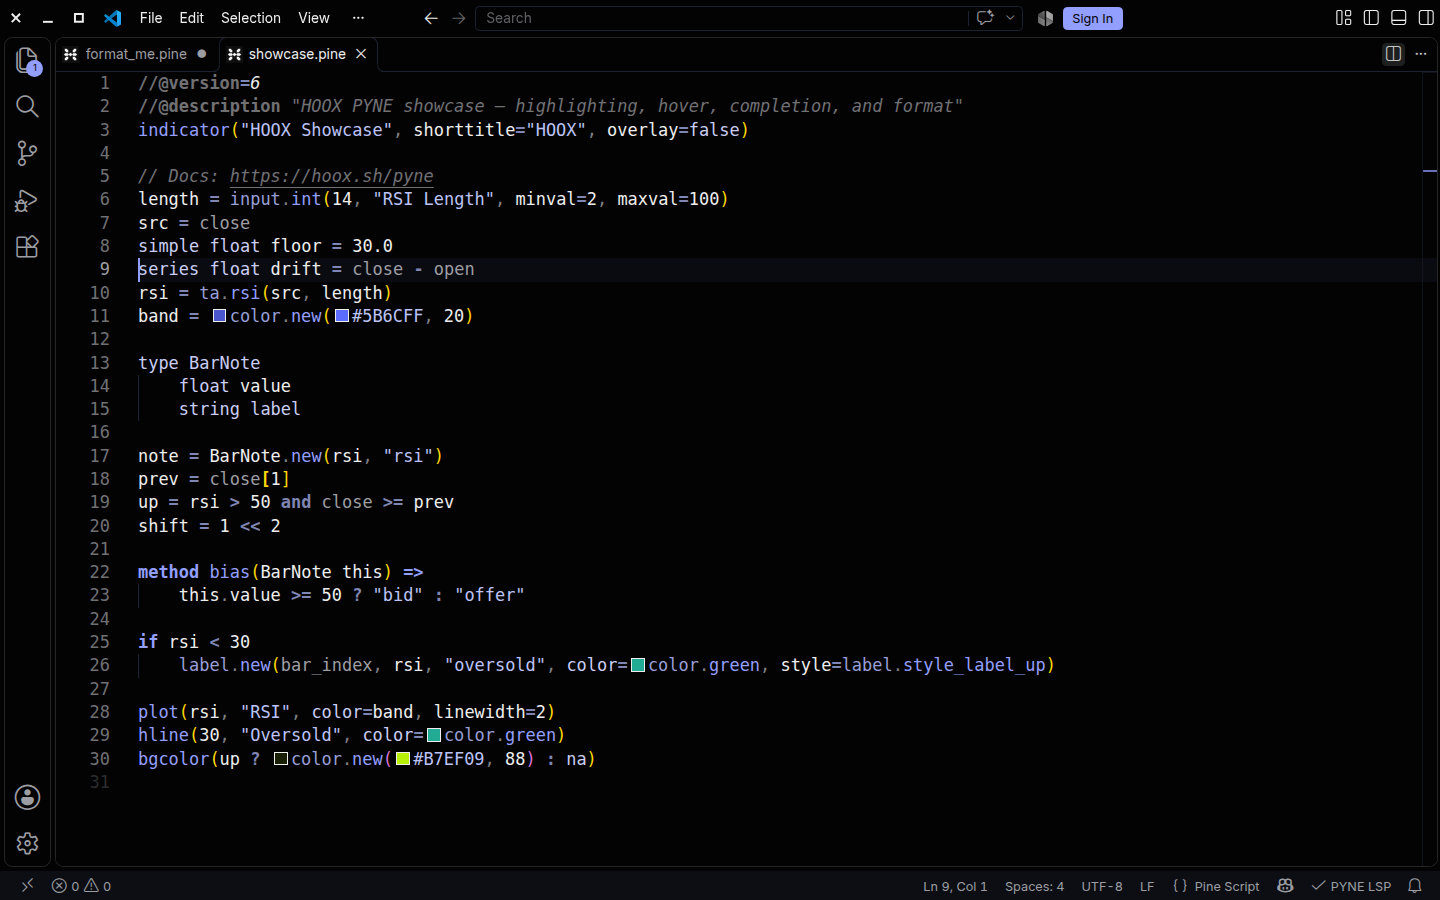
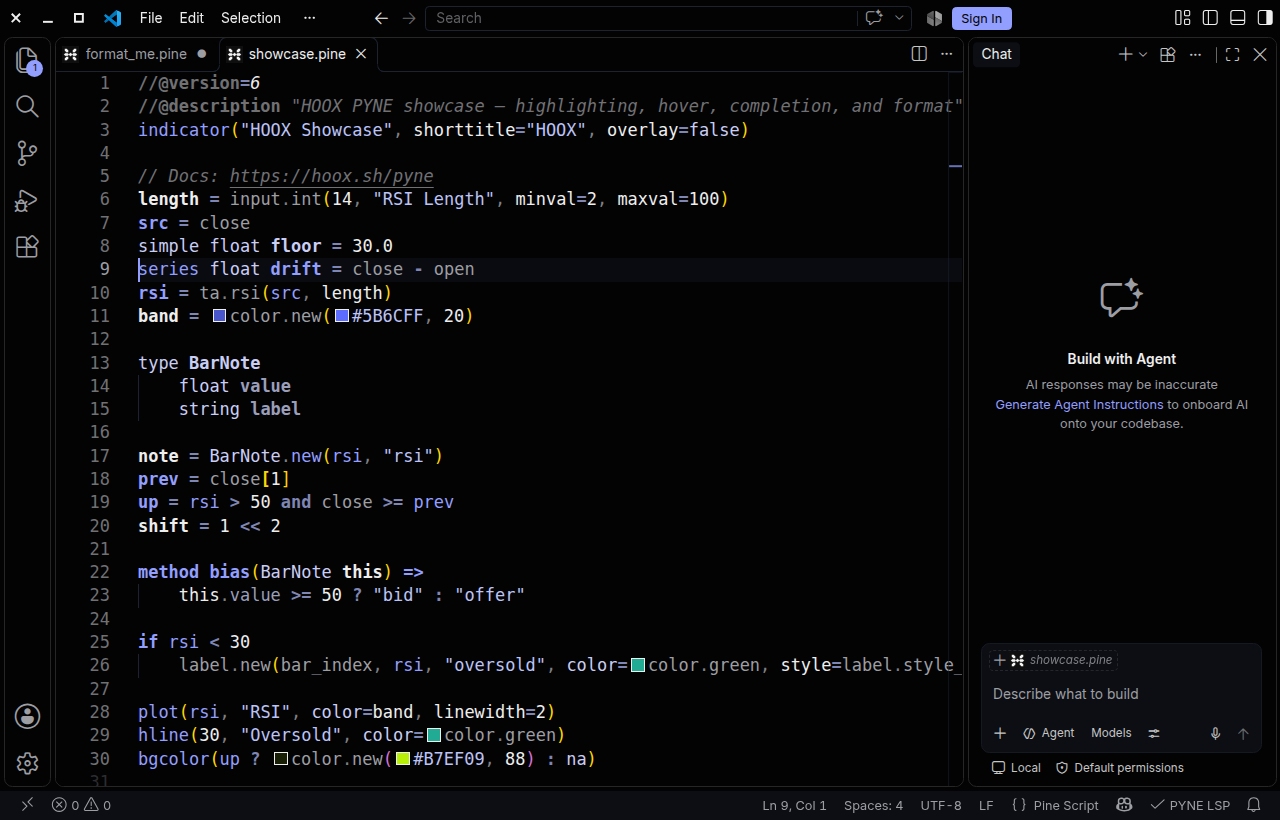
fix: trust the advertised series/simple legend for formatting
pyne-lsp 0.6.35 puts semanticTokensProvider on initialize, with a legend
ending in series, simple, and reports that version from serverInfo.
Full format follows that advertisement. 0.6.34 still has neither, so the
comment-free guard stays. The interpreter probe is removed.

diff --git a/src/lsp.ts b/src/lsp.ts
@@ -17,7 +17,6 @@
 //
 // SPDX-License-Identifier: AGPL-3.0-or-later
 
-import { execFileSync } from 'child_process';
 import * as fs from 'fs';
 import { window, workspace } from 'vscode';
 import {
@@ -33,11 +32,8 @@ import { cfg, expandWorkspaceVars, serverSettings, settingOn } from './config';
 import { filterDiagnostics } from './diagnostics';
 import {
   allowDocumentFormat,
-  LEGEND_PROBE_CODE,
   legendFromCapabilities,
-  legendPreservesComments,
-  parseLegendProbe,
-  pythonForLaunch,
+  serverPreservesComments,
 } from './format-guard';
 import { commandOnPath, handleMissingServer, installLanguageServer, pythonCanImportLangserver } from './install';
 import { log, setStatus } from './log';
@@ -113,24 +109,6 @@ export function resolveLspLaunch(): {
   };
 }
 
-/** Read the installed server's legend. pygls 2 does not put it on the wire. */
-function probeInstalledLegend(command: string): string[] | undefined {
-  const python = pythonForLaunch(command);
-  if (!python) {
-    return undefined;
-  }
-  try {
-    const stdout = execFileSync(python, ['-c', LEGEND_PROBE_CODE], {
-      encoding: 'utf8',
-      timeout: 8000,
-    });
-    return parseLegendProbe(stdout);
-  } catch (err) {
-    log(`Legend probe failed: ${err instanceof Error ? err.message : String(err)}`);
-    return undefined;
-  }
-}
-
 function documentFormatAllowed(source: string): boolean {
   if (cfg<boolean>('formatting.enabled') === false) {
     return false;
@@ -142,7 +120,7 @@ function documentFormatAllowed(source: string): boolean {
     state.formatSkipLogged = true;
     log(
       'Format skipped: this pyne-lsp drops prose comments. ' +
-        'It will format a comment-free buffer. A server whose token legend ends with series, simple keeps comments.',
+        'It will format a comment-free buffer. pyne-lsp 0.6.35 and later keep comments.',
     );
   }
   return false;
@@ -402,17 +380,23 @@ export async function startClient(): Promise<void> {
 
   try {
     await state.client.start();
-    const wireTypes = legendFromCapabilities(state.client.initializeResult?.capabilities);
-    const installedTypes = legendPreservesComments(wireTypes) ? undefined : probeInstalledLegend(launch.command);
-    const tokenTypes = legendPreservesComments(wireTypes) ? wireTypes : installedTypes;
-    state.preservesComments = legendPreservesComments(tokenTypes);
+    const tokenTypes = legendFromCapabilities(state.client.initializeResult?.capabilities);
     const version = state.client.initializeResult?.serverInfo?.version;
+    state.preservesComments = serverPreservesComments({ tokenTypes, version });
     setStatus('$(check) PYNE LSP', `Running: ${launch.label}`);
+    const tail =
+      tokenTypes &&
+      tokenTypes.length >= 2 &&
+      tokenTypes[tokenTypes.length - 2] === 'series' &&
+      tokenTypes[tokenTypes.length - 1] === 'simple';
+    const why = tail
+      ? 'advertised legend ends with series, simple'
+      : `serverInfo.version ${version ?? 'unknown'}`;
     log(
       `Language server started${version ? ` (${version})` : ''}. ` +
         (state.preservesComments
-          ? 'Legend ends with series, simple — full format keeps comments.'
-          : 'Legend has no series/simple tail — format stays comment-free only.'),
+          ? `${why} — full format keeps comments.`
+          : 'No series/simple legend and version is below 0.6.35 — format stays comment-free only.'),
     );
   } catch (err) {
     const msg = err instanceof Error ? err.message : String(err);

diff --git a/src/format-guard.ts b/src/format-guard.ts
@@ -17,58 +17,46 @@
 //
 // SPDX-License-Identifier: AGPL-3.0-or-later
 
-import * as path from 'path';
+/** First server release that keeps comments while formatting and advertises the legend. */
+export const COMMENT_PRESERVING_VERSION = '0.6.35';
 
-/** Python `-c` program that prints the server's semantic-token legend, one type per line. */
-export const LEGEND_PROBE_CODE =
-  'from pynescript.langserver.config import semantic_token_types\n' +
-  'print("\\n".join(semantic_token_types()))\n';
-
-/**
- * Interpreter that can import the same `pynescript` the launch command runs.
- *
- * pygls 2 rebuilds `initialize` capabilities from feature options and drops the
- * legend returned by the server's own initialize handler. The installed module
- * is the reliable copy of that legend.
- */
-export function pythonForLaunch(command: string): string | undefined {
-  const base = path.basename(command).toLowerCase();
-  if (
-    base === 'pyne-lsp' ||
-    base === 'pyne-lsp.exe' ||
-    base === 'pynescript-lsp' ||
-    base === 'pynescript-lsp.exe'
-  ) {
-    return path.join(path.dirname(command), process.platform === 'win32' ? 'python.exe' : 'python');
+/** True when `version` is at least `minimum` (`major.minor.patch`). Junk is not. */
+export function serverVersionAtLeast(version: string | undefined, minimum: string): boolean {
+  const parse = (value: string): [number, number, number] | undefined => {
+    const match = value.trim().match(/^(\d+)\.(\d+)\.(\d+)/);
+    if (!match) {
+      return undefined;
+    }
+    return [Number(match[1]), Number(match[2]), Number(match[3])];
+  };
+  const got = version ? parse(version) : undefined;
+  const need = parse(minimum);
+  if (!got || !need) {
+    return false;
   }
-  if (
-    base === 'python' ||
-    base === 'python.exe' ||
-    base === 'python3' ||
-    base === 'python3.exe' ||
-    base === 'py' ||
-    base === 'py.exe'
-  ) {
-    return command;
+  for (let i = 0; i < 3; i += 1) {
+    if (got[i] !== need[i]) {
+      return got[i] > need[i];
+    }
   }
-  return undefined;
-}
-
-/** Parse the probe's stdout into a token-type list. */
-export function parseLegendProbe(stdout: string): string[] | undefined {
-  const types = stdout
-    .split('\n')
-    .map((line) => line.trim())
-    .filter((line) => line.length > 0);
-  return types.length > 0 ? types : undefined;
+  return true;
 }
 
 /**
- * Comment-preserving format and the `series` / `simple` legend shipped
- * together. Released servers (hoox-pyne 0.6.34 and earlier) do not bump a
- * version we can branch on, and that PR does not either. The initialize
- * legend is the reliable signal: it ends with `series` then `simple`.
+ * Full formatting keeps comments when the initialize legend ends with
+ * `series` then `simple`, or when `serverInfo.version` is at least 0.6.35.
+ * hoox-pyne 0.6.34 advertises neither, so it stays on the comment-free guard.
  */
+export function serverPreservesComments(input: {
+  tokenTypes?: readonly string[] | undefined;
+  version?: string | undefined;
+}): boolean {
+  return (
+    legendPreservesComments(input.tokenTypes) ||
+    serverVersionAtLeast(input.version, COMMENT_PRESERVING_VERSION)
+  );
+}
+
 /** Pull `legend.tokenTypes` off an LSP initialize capabilities object. */
 export function legendFromCapabilities(capabilities: unknown): string[] | undefined {
   if (!capabilities || typeof capabilities !== 'object') {

diff --git a/src/test/format-guard.test.ts b/src/test/format-guard.test.ts
@@ -24,8 +24,8 @@ import {
   hasDroppableComments,
   legendFromCapabilities,
   legendPreservesComments,
-  parseLegendProbe,
-  pythonForLaunch,
+  serverPreservesComments,
+  serverVersionAtLeast,
 } from '../format-guard';
 
 const OLD_LEGEND = [
@@ -61,13 +61,19 @@ describe('legendPreservesComments', () => {
   });
 });
 
-describe('installed legend probe', () => {
-  it('parses the module probe and finds the python next to pyne-lsp', () => {
-    assert.deepEqual(parseLegendProbe('comment\nseries\nsimple\n'), ['comment', 'series', 'simple']);
-    assert.equal(legendPreservesComments(parseLegendProbe('comment\nseries\nsimple\n')), true);
-    const py = pythonForLaunch('/tmp/pyne-pr-venv/bin/pyne-lsp');
-    assert.equal(py, '/tmp/pyne-pr-venv/bin/python');
-    assert.equal(pythonForLaunch('docker'), undefined);
+describe('serverPreservesComments', () => {
+  it('trusts an advertised series/simple tail or serverInfo 0.6.35+', () => {
+    assert.equal(serverVersionAtLeast('0.6.35', '0.6.35'), true);
+    assert.equal(serverVersionAtLeast('0.6.34', '0.6.35'), false);
+    assert.equal(serverVersionAtLeast('0.7.0', '0.6.35'), true);
+    assert.equal(serverVersionAtLeast('not-a-version', '0.6.35'), false);
+    assert.equal(
+      serverPreservesComments({ tokenTypes: [...OLD_LEGEND, 'series', 'simple'], version: '0.6.34' }),
+      true,
+    );
+    assert.equal(serverPreservesComments({ tokenTypes: OLD_LEGEND, version: '0.6.35' }), true);
+    assert.equal(serverPreservesComments({ tokenTypes: OLD_LEGEND, version: '0.6.34' }), false);
+    assert.equal(serverPreservesComments({}), false);
   });
 });
 

diff --git a/src/state.ts b/src/state.ts
@@ -39,8 +39,9 @@ export const state = {
   /** SecretStorage for the Pro API key (never settings.json). */
   secrets: undefined as SecretStore | undefined,
   /**
-   * True when the running server's semantic-token legend ends with
-   * `series`, `simple` — the same change that preserves comments while formatting.
+   * True when initialize advertises a legend ending in `series`, `simple`,
+   * or `serverInfo.version` is at least 0.6.35. Those servers keep comments
+   * while formatting.
    */
   preservesComments: false,
   /** Log the comment-free format skip once per server start. */

diff --git a/docs/editor-pass.md b/docs/editor-pass.md
@@ -29,7 +29,7 @@ Review of `hoox-sh.pyne` against `pyne-lsp` from `hoox-pyne` 0.6.34, then fixes 
 
 ## Follow-up (server PR hoox-sh/pyne#72, not merged)
 
-The extension treats a legend that **ends with** `series` then `simple` as the comment-preserving formatter. The package version stays `0.6.34` on both sides, so version is not the signal. pygls 2 rebuilds `initialize` capabilities from feature options and does not put that legend on the wire (the handlers are registered without options), so the client also imports `semantic_token_types()` from the same interpreter that launches `pyne-lsp`. Older legends keep the comment-free format guard. Theme keys `series` and `simple` match those names, in that order, and use different colors. `S003` and `S004` are named on the semantic-diagnostics setting. Range and on-type formatting still come from the server; it returns no edit when the line count would change.
+pyne-lsp 0.6.35 registers `textDocument/semanticTokens/full` and `/range` with a `SemanticTokensLegend`, so `initialize` advertises `semanticTokensProvider` (`full: true`, `range: true`, legend ending in `series`, `simple`) and `serverInfo.version` is `0.6.35`. The client turns on full formatting when that legend is advertised or the version is at least 0.6.35. hoox-pyne 0.6.34 has neither, so it stays on the comment-free guard. The interpreter probe is gone. Theme keys `series` and `simple` match the legend names and use different colors. `S003` and `S004` are named on the semantic-diagnostics setting. Range and on-type formatting still come from the server; it returns no edit when the line count would change.
 
 ## Not fixed here
 

diff --git a/README.md b/README.md
@@ -143,9 +143,15 @@ Captured in VS Code with the **AXIS Void** theme (the light shot uses **AXIS Day
 
 ### Syntax highlighting
 
-Namespaces, annotations, hex colors, history refs, and UDTs. With a server that emits `series` / `simple` tokens, `close` and `series float` use those theme colors.
+Namespaces, annotations, hex colors, history refs, and UDTs. On pyne-lsp 0.6.35 the server legend paints `series` and `close` in the theme's series color and `simple` in its simple color. Those two colors differ on every contributed theme.
 
-![Syntax highlighting in AXIS Void](docs/screenshots/highlighting.png)
+![Semantic colors, AXIS Void](docs/screenshots/semantic-void.png)
+
+![Semantic colors, Hoox Signal](docs/screenshots/semantic-signal.png)
+
+![Semantic colors, PYNE Volt](docs/screenshots/semantic-volt.png)
+
+![Semantic colors, AXIS Day](docs/screenshots/semantic-day.png)
 
 ### Diagnostics
 
@@ -173,7 +179,7 @@ Parameter hints while the argument list is open.
 
 ### Formatting
 
-`PYNE: Format Document` rewrites spacing through the language server. A server whose semantic-token legend ends with `series` then `simple` keeps line, trailing, and block comments. Older servers would drop those notes, so the client only asks them to format a comment-free buffer.
+`PYNE: Format Document` rewrites spacing through the language server. pyne-lsp 0.6.35 and later (or any server whose initialize legend ends with `series` then `simple`) keeps line, trailing, and block comments. Older servers would drop those notes, so the client only asks them to format a comment-free buffer.
 
 ![Before formatting](docs/screenshots/formatting-before.png)
 

diff --git a/CHANGELOG.md b/CHANGELOG.md
@@ -6,7 +6,7 @@ All notable changes to pyne are documented here.
 
 ### Changed
 
-- **Formatting follows the server.** When the semantic-token legend ends with `series` then `simple`, full format is allowed on buffers that contain comments (that server keeps them). Older servers stay comment-free only, so a pretty-print cannot delete `//` notes.
+- **Formatting follows the advertised server.** Full format (comments kept) turns on when `initialize` reports a legend ending in `series`, `simple`, or `serverInfo.version` is at least 0.6.35. hoox-pyne 0.6.34 stays comment-free only.
 - **Semantic diagnostics** document `S003` (value too weak for its declared type) and `S004` (bare `na` with no contextual type). Remap both with a severity prefix of `S`.
 
 ### Fixed

diff --git a/okf/log.md b/okf/log.md
@@ -2,8 +2,8 @@
 
 ## 2026-11-10
 
-- Format gate follows the server legend (`series`/`simple` tail means comments
-  are kept). Semantic setting names S003 and S004.
+- Format gate uses the initialize legend (`series`/`simple` tail) or
+  `serverInfo.version` >= 0.6.35. 0.6.34 stays comment-free only.
 
 - Editor pass: severity remap, single diagnostic collection, link and lookahead
   positions, inlay toggle, grammar operator order, AXIS Day, status-bar
